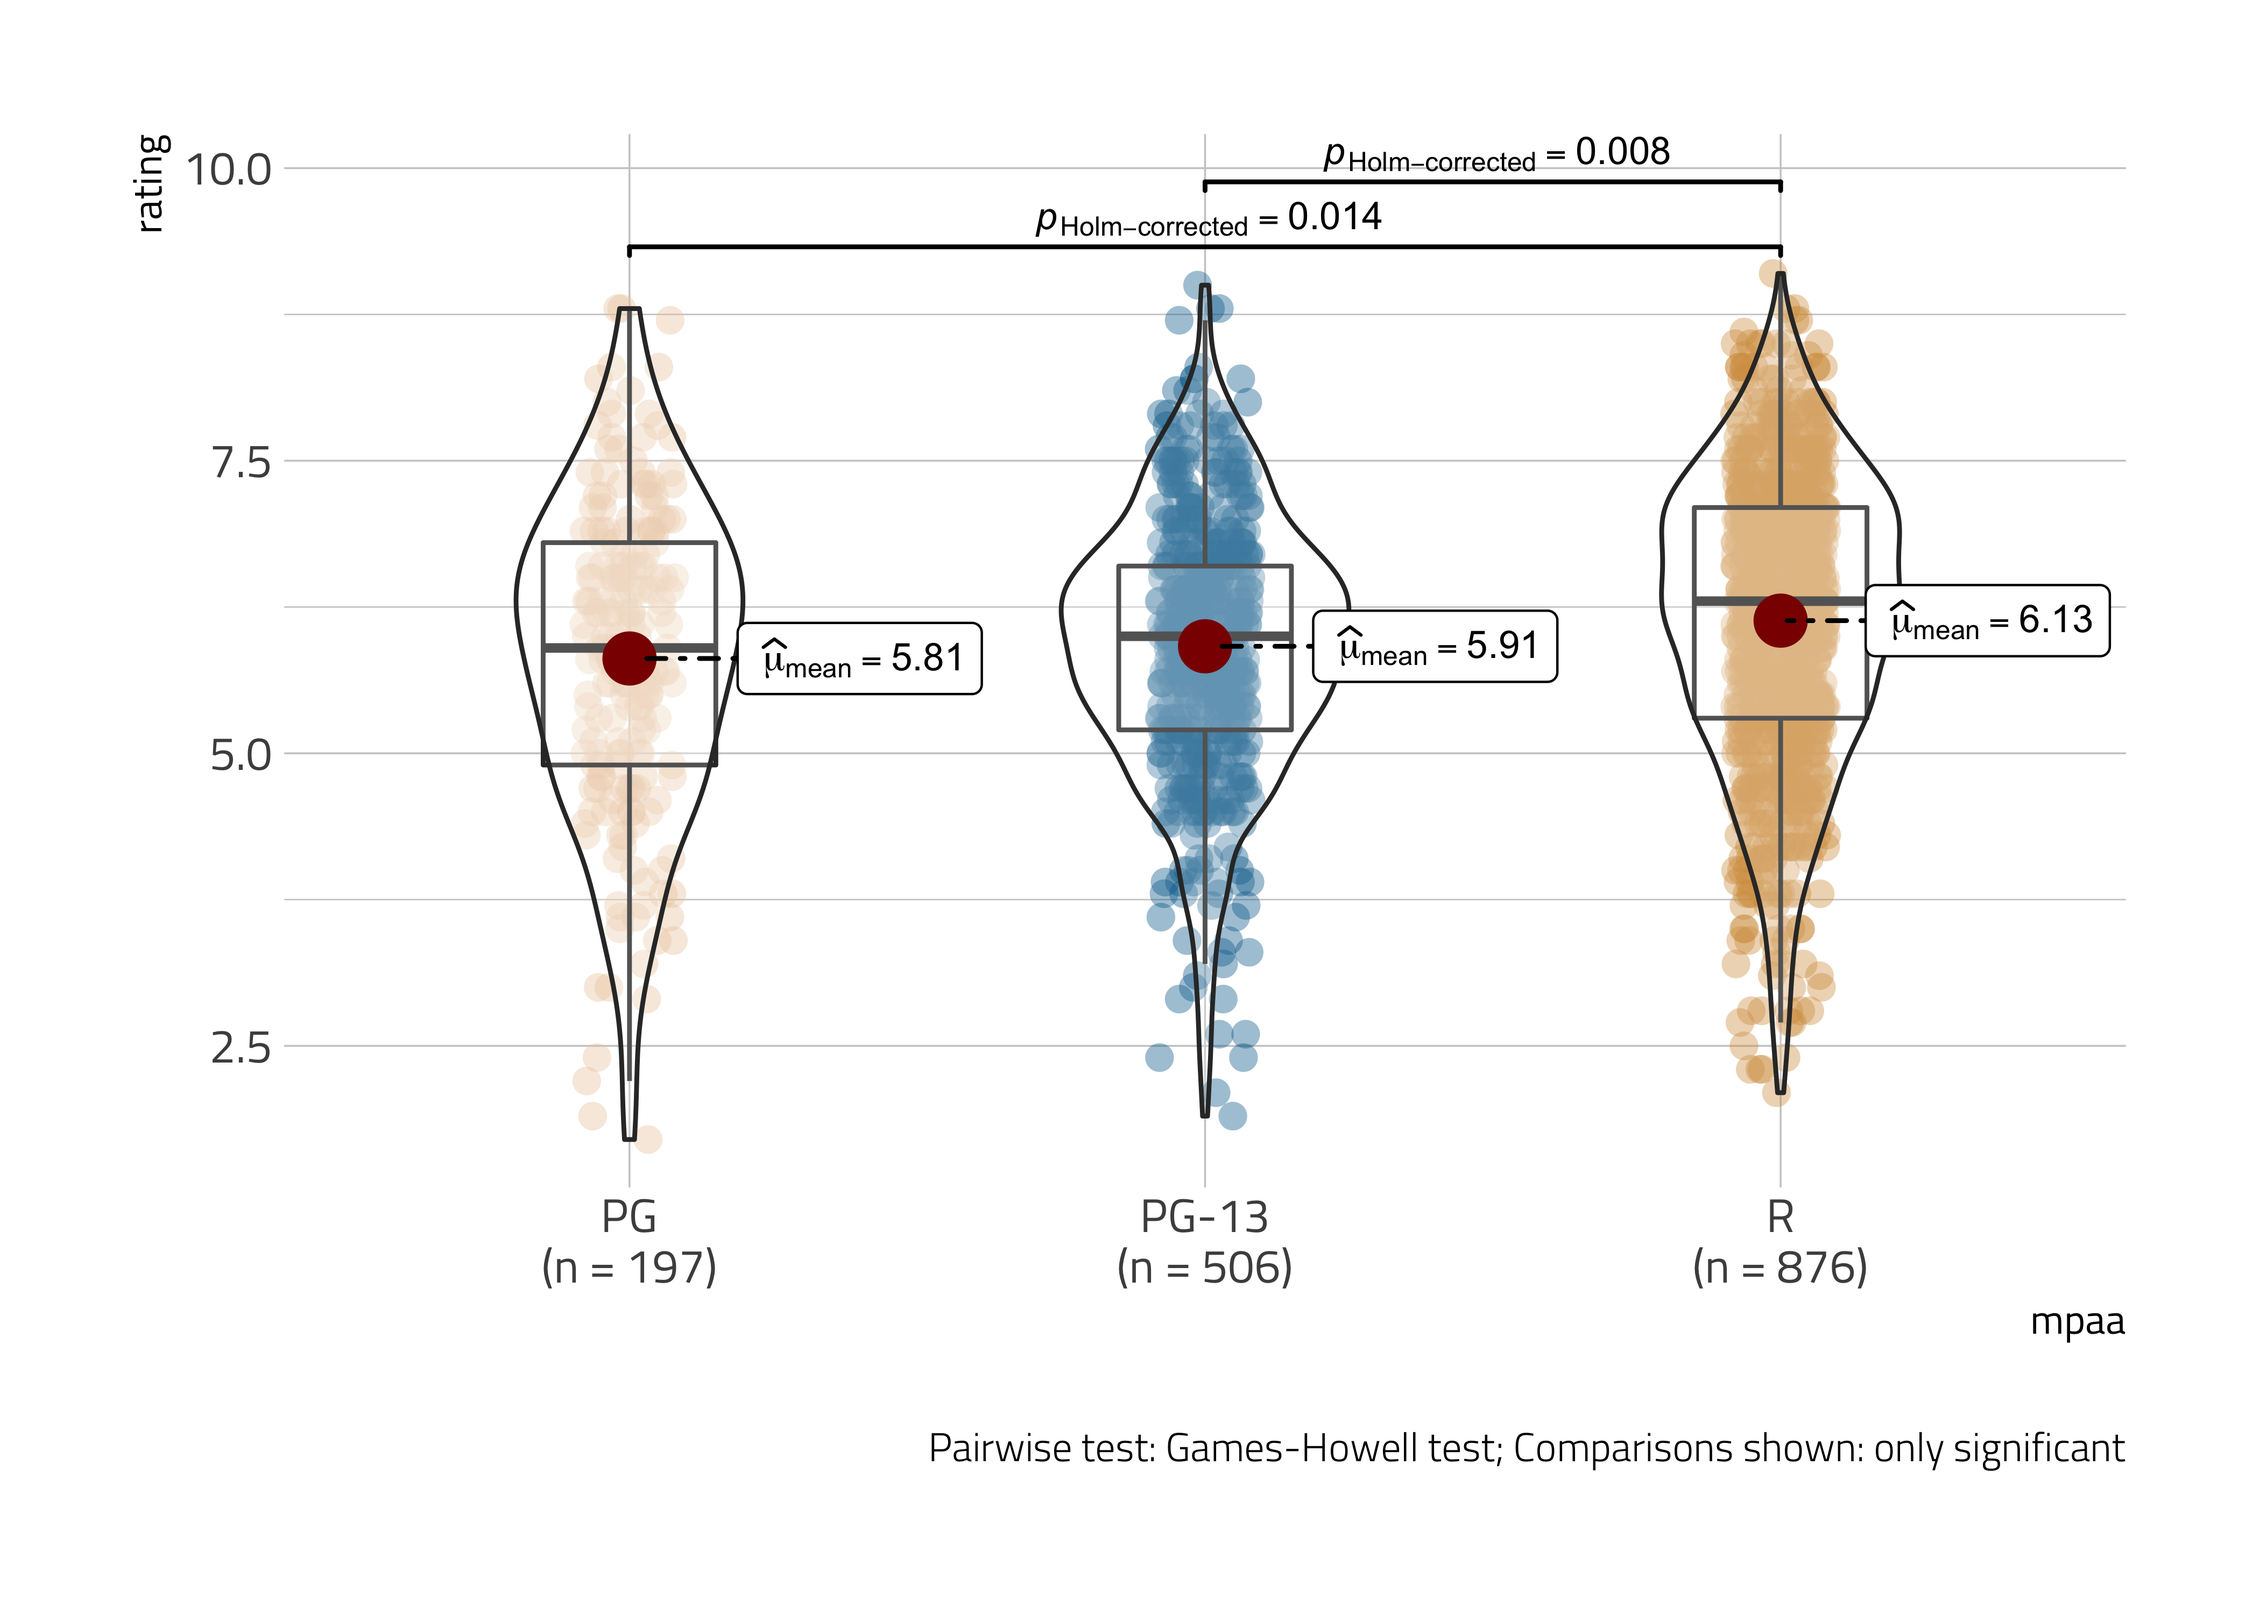
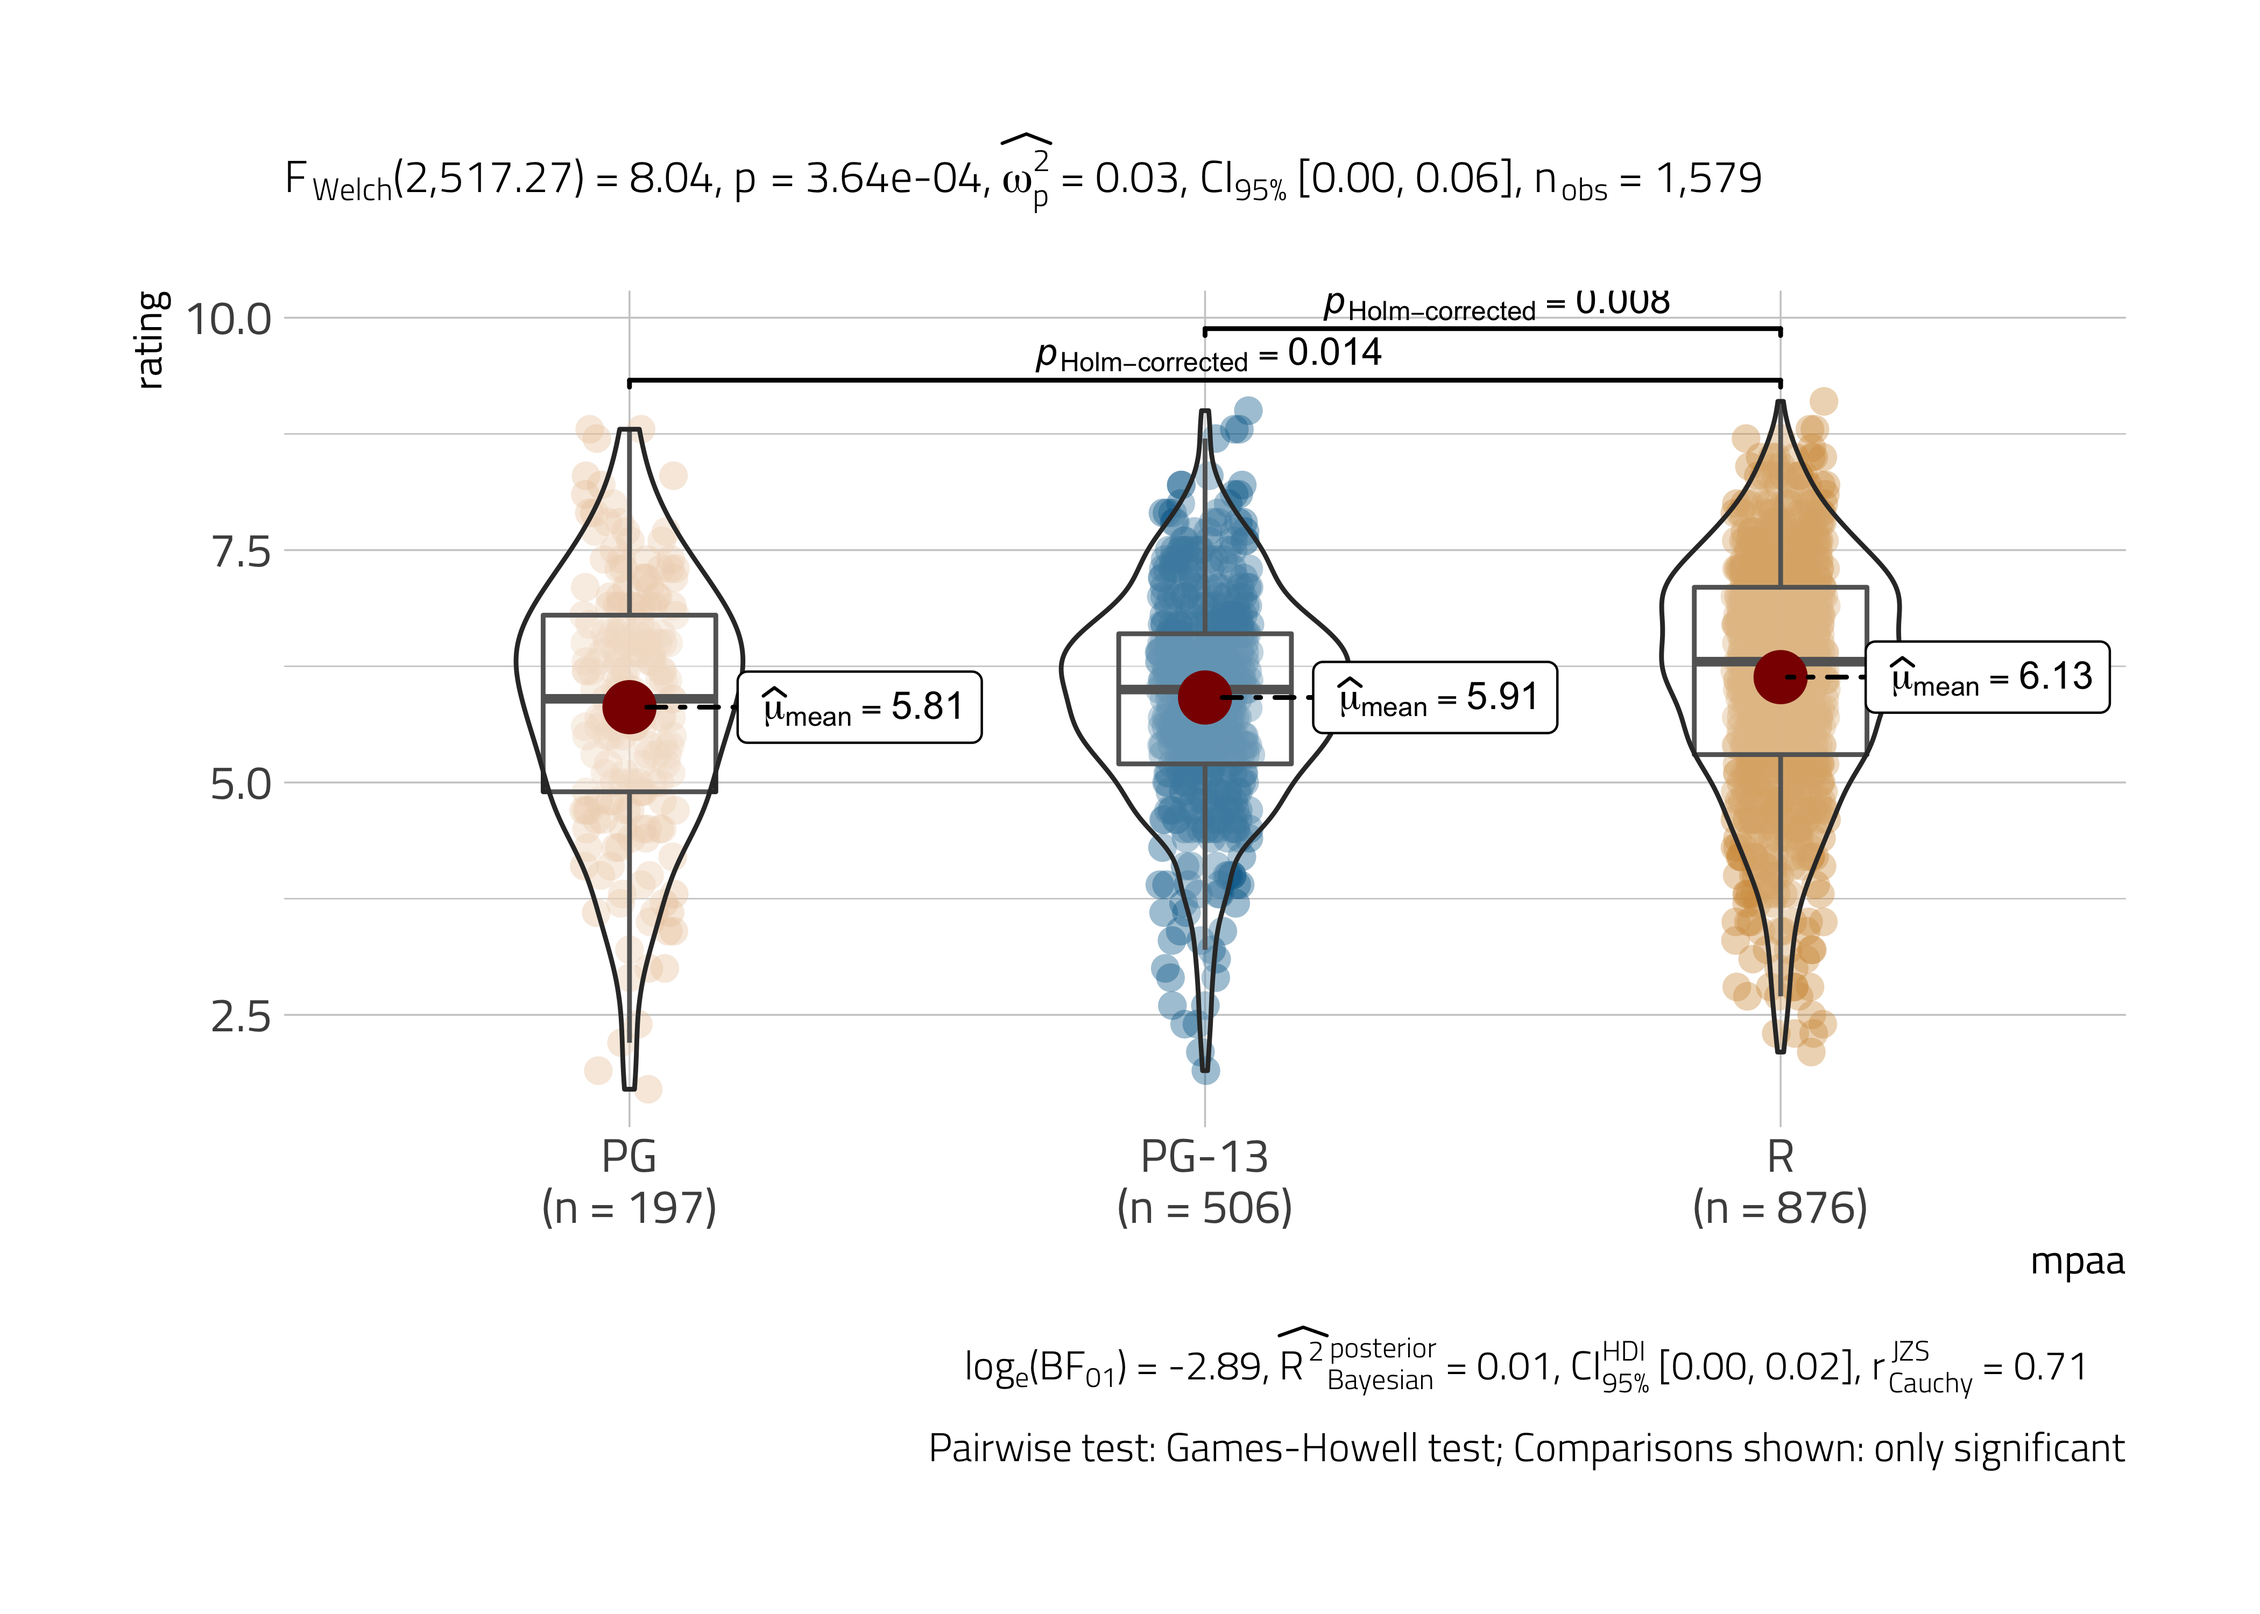
minor

diff --git a/docs/slides/ggstatsplot_presentation.html b/docs/slides/ggstatsplot_presentation.html
@@ -4,7 +4,7 @@
     <title>ggstatsplot: ggplot2 Based Plots with Statistical Details</title>
     <meta charset="utf-8" />
     <meta name="author" content="Indrajeet Patil (Center for Humans and Machines, Max Planck Institute, Berlin)" />
-    <meta name="date" content="2021-02-17" />
+    <meta name="date" content="2021-02-18" />
     <script src="libs/header-attrs/header-attrs.js"></script>
     <link href="libs/remark-css/default.css" rel="stylesheet" />
     <link href="libs/remark-css/metropolis.css" rel="stylesheet" />
@@ -16,9 +16,9 @@
 class: center, middle, inverse, title-slide
 
 # <code>ggstatsplot</code>: <code>ggplot2</code> Based Plots with Statistical Details
-## An Introductory Tutorial (Version: 0.7.0)
+## An Introductory Tutorial at Oslo useR! Group
 ### Indrajeet Patil (Center for Humans and Machines, Max Planck Institute, Berlin)
-### 2021-02-17 <br> <br> <br>
+### 2021-02-18 <br> <br> <br>
 
 ---
 
@@ -220,11 +220,11 @@ stats::cor.test(formula = ~ wt + mpg, data = mtcars)
 --
 
 .pull-right[
-**All** functions in `ggstatsplot`-
+Functions in `ggstatsplot`-
 
-✅ rely on a **dataframe** &lt;br&gt;
+✅ expect **dataframe** &lt;br&gt;
 ✅ expect **tidy** data &lt;br&gt;
-✅ consistent API (`function(data, x, ...)`) &lt;br&gt;
+✅ have consistent API (`foo(data, x, ...)`) &lt;br&gt;
 ]
 
 --
@@ -1085,6 +1085,10 @@ layout: true
 
 ---
 
+Aesthetic preferences are not an excuse to not use `ggstatsplot`! 😻
+
+--
+
 .left-code[
 
 ```r
@@ -1092,7 +1096,6 @@ ggbetweenstats(
   data = movies_long,
   x = mpaa,
   y = rating,
-  results.subtitle = FALSE,
 * ggtheme = hrbrthemes::theme_ipsum_tw(),
 * palette = "Darjeeling2",
 * package = "wesanderson"
@@ -1100,10 +1103,6 @@ ggbetweenstats(
 ```
 
 .font70[
-Aesthetic preferences
-are not an excuse to not
-use `ggstatsplot`! 😻
-
 The default palette 
 is **colorblind-friendly**.
 ]
@@ -1121,6 +1120,8 @@ layout: true
 
 ---
 
+You can modify `ggstatsplot` plots further using `ggplot2` functions. 🎉
+
 .left-code[
 
 ```r
@@ -1132,12 +1133,6 @@ ggbetweenstats(
 ) +
 * scale_y_continuous(sec.axis = dup_axis())
 ```
-
-.font70[
-You can modify 
- `ggstatsplot` plots further 
-using `ggplot2` functions. 🎉
-]
 
 .img-left-small[
 ![](images/happy_cat.gif)
@@ -1293,6 +1288,7 @@ layout: false
 🤔 long/wide format data? &lt;br&gt;
 🤔 works with `NA`s? &lt;br&gt;
 🤔 returns list, dataframe, arrays? &lt;br&gt;
+🤔 works with tibbles? &lt;br&gt;
 
 .img-right-small[
 ![](images/monkey.gif)
@@ -1383,7 +1379,7 @@ layout: false
 The expression template tries to follow the APA gold standard for statistical
 reporting.
 
-For example, expression for robust *t*-test:
+For example, expression for a robust *t*-test:
 
 ![](images/stats_reporting_format.jpg)
 
@@ -1461,44 +1457,34 @@ properly interpret the null results.
 
 layout: true
 
-# Summary of benefits
+# A few additional benefits
 
 ---
 
 --
 
-- No need to use scores of packages for statistical analysis
-  (e.g., one to get stats, one to get effect sizes, another to get Bayes
-  Factors, and yet another to get pairwise comparisons, etc.).
-
---
-
 - Minimal amount of code needed (typically only `data`, `x`,
-  and `y`), which minimizes chances of error and makes for tidy scripts.
-  
---
-
-- Conveniently toggle between statistical approaches.
+  and `y`), which minimizes chances of error and makes for tidy scripts. 💅
 
 --
 
-- Truly makes your figures worth a thousand words.
+- Truly makes your figures worth a thousand words. 💬
 
 --
 
-- No need to copy-paste results to the text editor (MS-Word, e.g.).
+- No need to copy-paste results to the text editor (MS-Word, e.g.). 🙅
 
 --
 
-- Disembodied figures stand on their own and are easy to evaluate for the reader.
+- Disembodied figures stand on their own and are easy to evaluate for the reader. 🧐
 
 --
 
-- More breathing room for theoretical discussion and other text.
+- More breathing room for theoretical discussion and other text. ✍
 
 --
 
-- No need to worry about updating figures and statistical details separately.
+- No need to worry about updating figures and statistical details separately. 🔗
 
 ---
 

diff --git a/README.html b/README.html
@@ -209,7 +209,7 @@ summary {
 <h2>Versions</h2>
 <p>These slides are from presentations given at various gatherings:</p>
 <ul>
-<li><p><strong>UseR Oslo meetup</strong>, online talk, February, 18, 2021.</p></li>
+<li><p><strong>Oslo useR! Group</strong>, online talk, February, 18, 2021.</p></li>
 <li><p><strong>R-Ladies Tunis</strong>, online talk, December, 15, 2020.</p></li>
 <li><p><strong>Methods Talk series</strong> (Psychology Department, New York University), NYC, NY, March, 28, 2019.</p></li>
 <li><p><strong>Greater Boston useR Group meeting</strong>, Boston, MA, March, 26, 2019.</p></li>

diff --git a/README.md b/README.md
@@ -27,7 +27,7 @@ install.packages(c("ggstatsplot", "tidyverse"))
 
 These slides are from presentations given at various gatherings:
 
-  - **UseR Oslo meetup**, online talk, February, 18, 2021.
+  - **Oslo useR! Group**, online talk, February, 18, 2021.
 
   - **R-Ladies Tunis**, online talk, December, 15, 2020.
 
